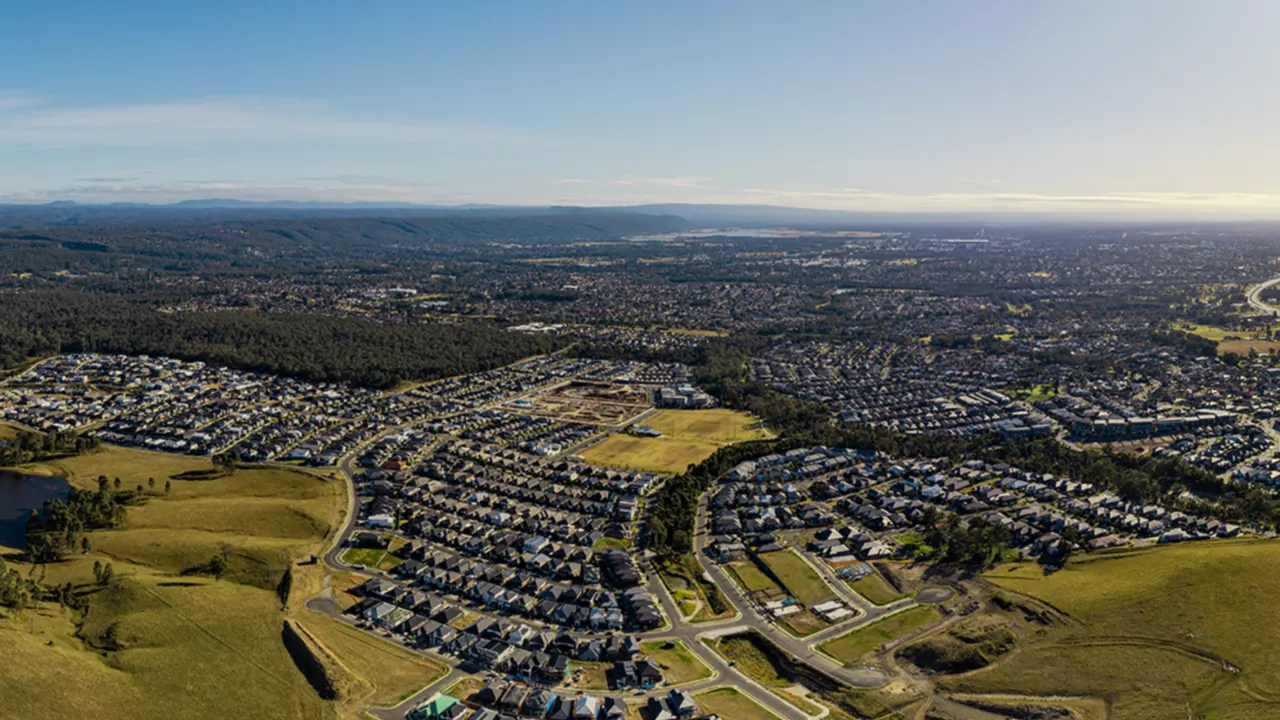
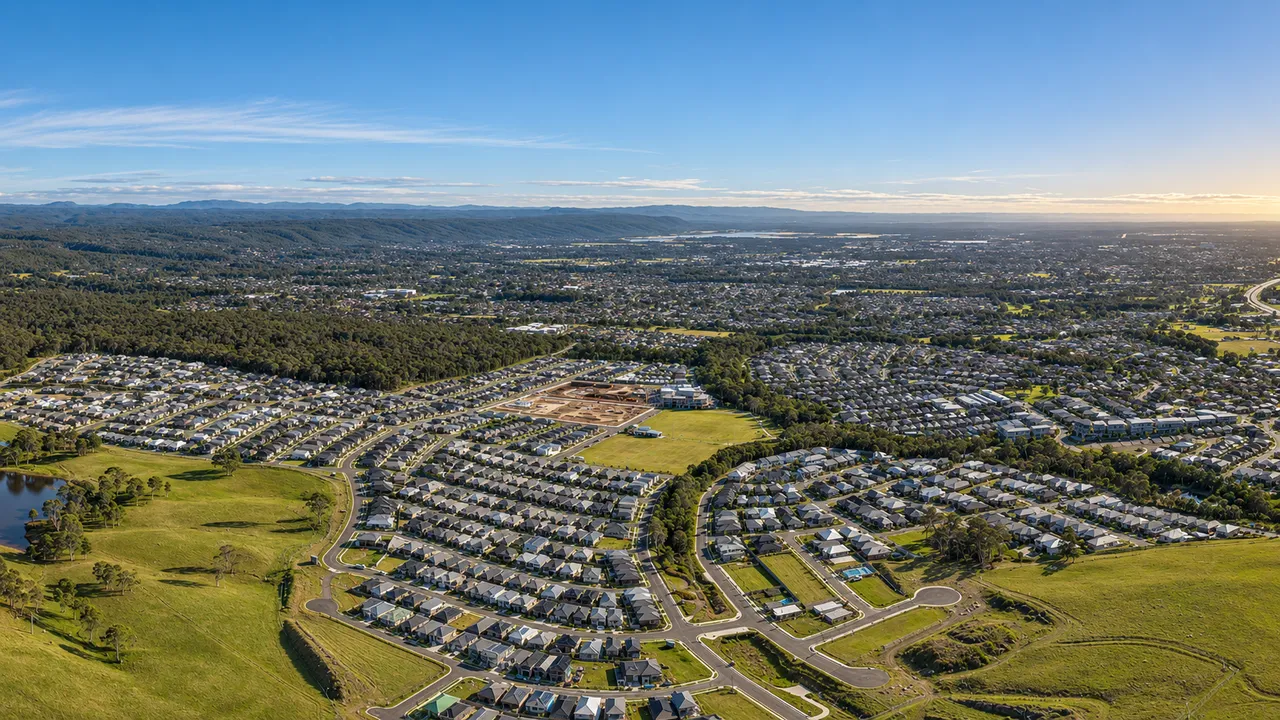
Swap home page divider to the new greenfield estate aerial photo

diff --git a/app/page.tsx b/app/page.tsx
@@ -448,11 +448,11 @@ export default function HomePage() {
       <figure className="photo-divider" style={{ '--photo-y': '68%' } as React.CSSProperties}>
         <img
           src="/assets/photos/estate-aerial-1280.webp"
-          srcSet="/assets/photos/estate-aerial-1280.webp 1280w, /assets/photos/estate-aerial-2400.webp 2400w"
+          srcSet="/assets/photos/estate-aerial-1280.webp 1280w, /assets/photos/estate-aerial-1672.webp 1672w"
           sizes="100vw"
           alt="Aerial view of a growing house and land community"
-          width={2400}
-          height={1350}
+          width={1672}
+          height={941}
           loading="lazy"
           decoding="async"
         />
